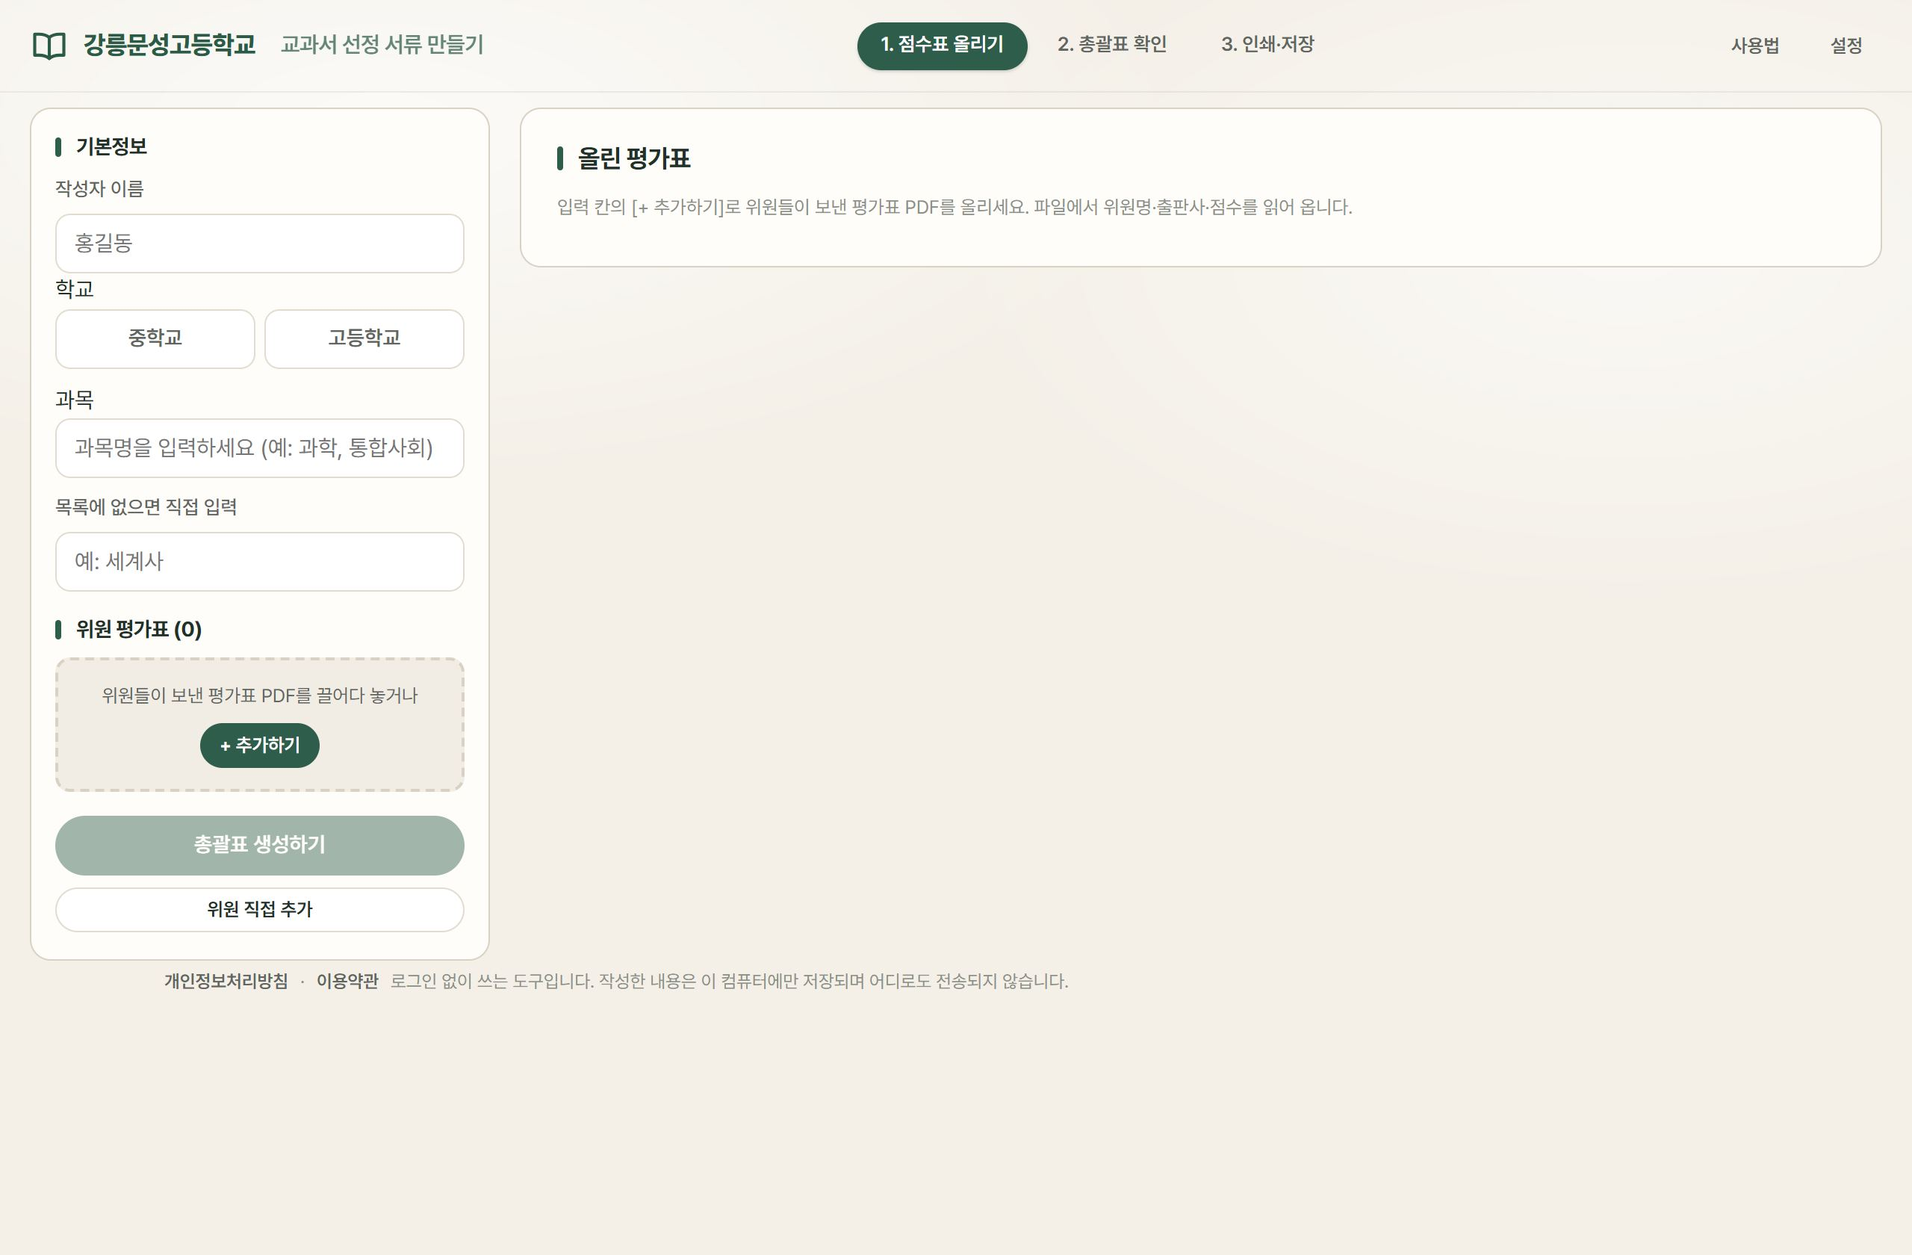
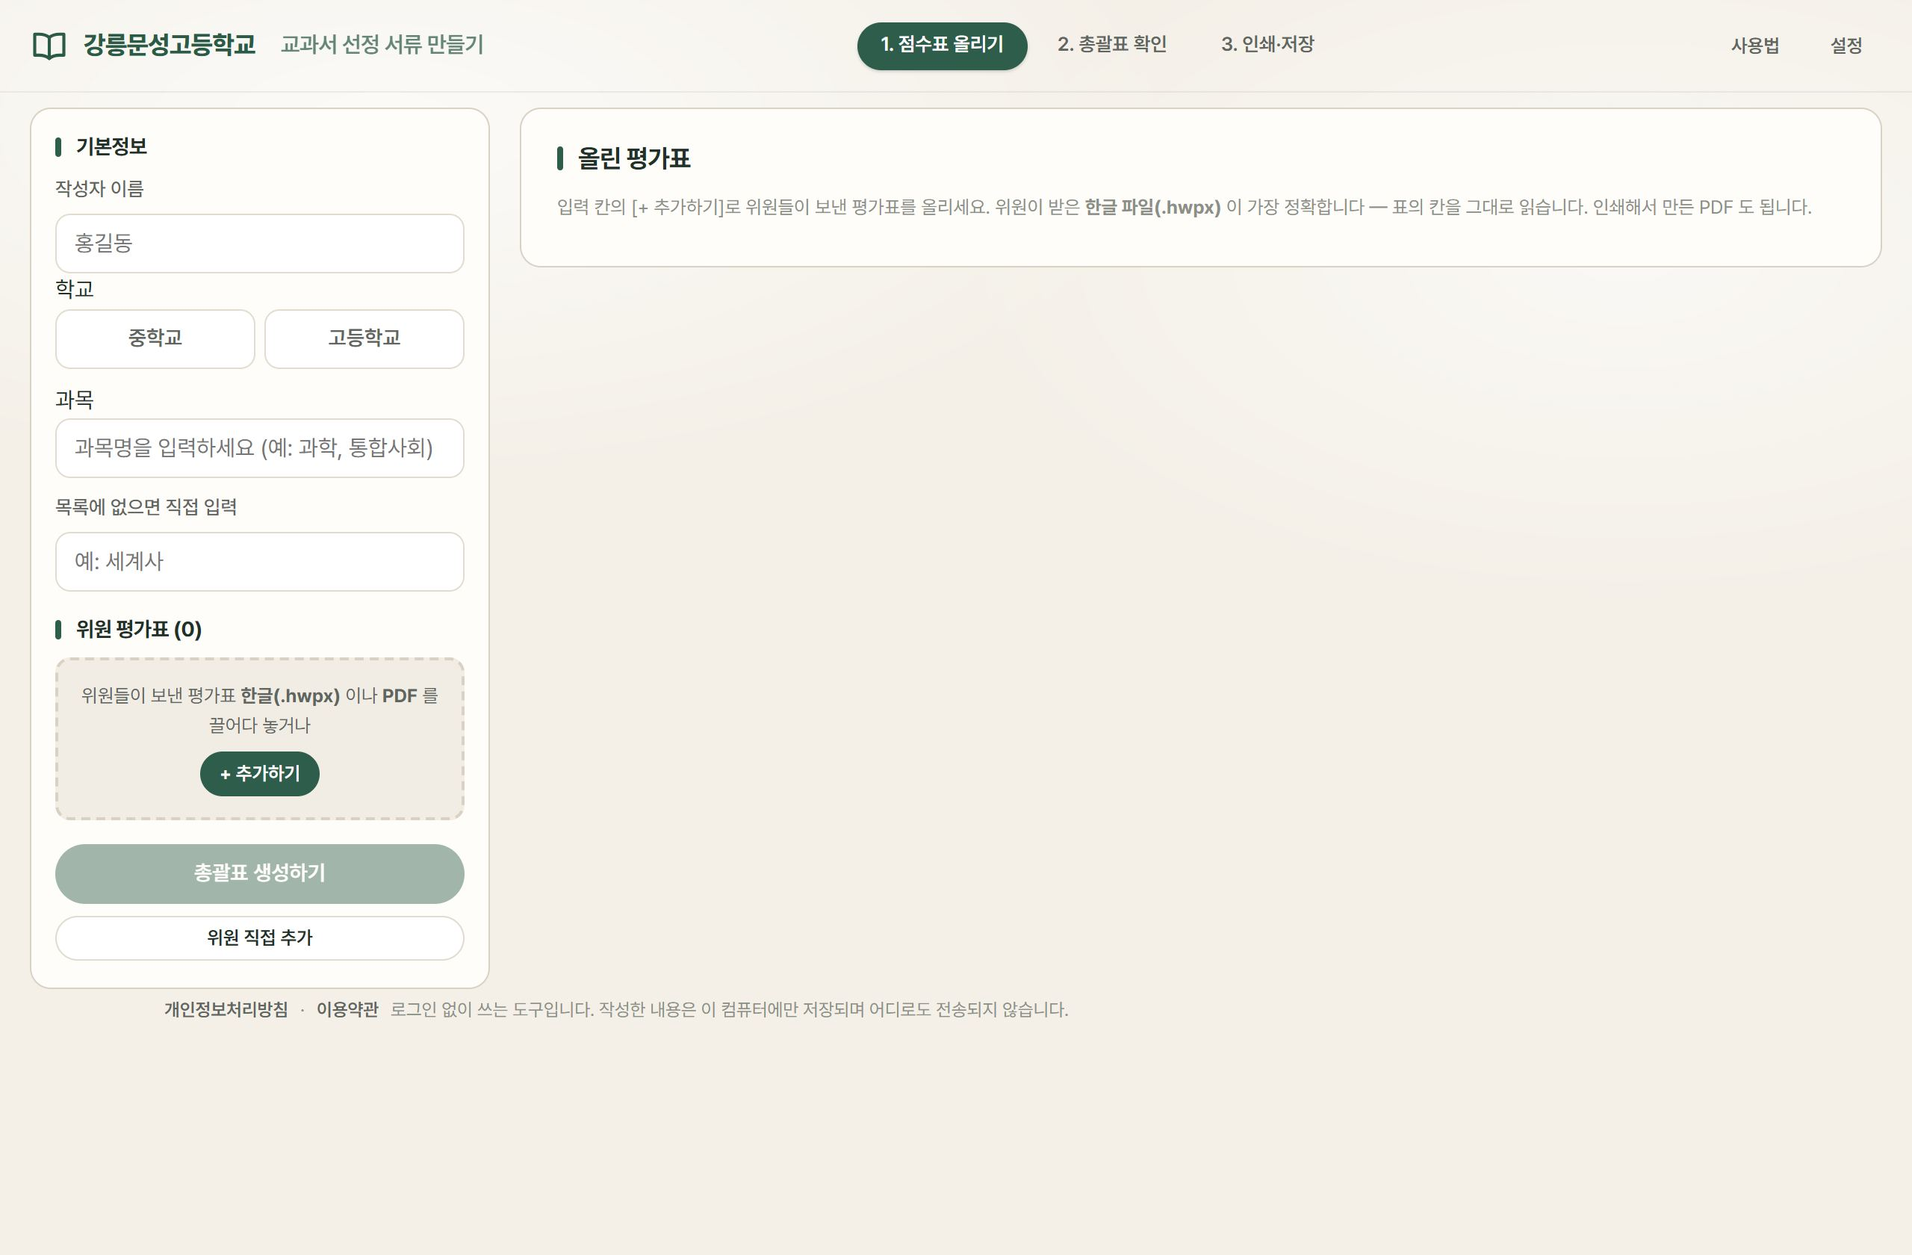
총괄표에 한글 파일(.hwpx)을 그대로 올릴 수 있게 하다
선생님이 올린 파일을 받아 보니 원인이 분명해졌다.
한글에서 [PDF로 저장] 한 파일이었고, 그 PDF 안에는 글자가 한 자도 없었다.

  만든 프로그램  Hancom PDF 1.3.0.550
  글꼴           0개
  뽑아낸 글자     0개
  그리기 연산     constructPath 572 · fill 351 · eoFill 217

한글이 내보내면서 글자를 모두 선(벡터 그림)으로 바꿔 버린다. 읽을 글자가 없으니
판독기가 손쓸 수 없고, 앱은 그림 판독(OCR)으로 넘어가 억지로 읽다 실패했다.

PDF 를 거치지 말고 .hwpx 를 그대로 읽게 했다 (src/lib/hwpxImport.ts).
zip 을 풀어(DecompressionStream) 표의 칸 주소로 값을 꺼내므로 판독 heuristic 이
아예 필요 없다 — 위원이 한글에서 점수를 고쳐 저장한 파일도 읽힌다.
서식1 이 아닌 한글 파일은 무엇인지 짚어 돌려보낸다
('이 한글 파일에는 선정 평가표(서식1)가 없습니다 — 평가 총괄표입니다').

위원 3명분 .hwpx 로 총괄표까지 만들어 총점·평균·순위가 맞는 것을 확인했다.

사용법과 총괄 화면 안내도 고쳤다 — 한글 파일이 가장 정확하고, 한글에서 PDF 로
저장한 것은 읽히지 않는다는 것을 일러 둔다.

Changed region(s): [[0.0312, 0.5262, 0.5625, 0.8048], [0.4688, 0.1548, 0.9375, 0.1857]]

diff --git a/src/lib/hwpxImport.ts b/src/lib/hwpxImport.ts
@@ -1,0 +1,172 @@
+/**
+ * 위원이 받은 한글 파일(.hwpx)에서 선정 평가표를 도로 읽는다.
+ *
+ * PDF 를 거치지 않는 길이다. 한글로 내보낸 PDF 는 글자를 모두 선(벡터 그림)으로 바꿔 버려
+ * 글자가 한 자도 들어 있지 않고, 그림 판독(OCR)으로는 숫자를 믿을 수 없다.
+ * 반면 .hwpx 는 우리가 만든 XML 그대로라, 표의 칸 주소로 값을 꺼내면 어긋날 일이 없다.
+ *
+ * 위원이 한글에서 점수를 고쳐 저장한 파일도 읽힌다 — 칸 주소로 찾기 때문이다.
+ */
+import type { ParsedForm1 } from './form1Parse'
+import { normalize } from './form1Parse'
+
+/** zip 한 개를 푼다 (압축된 것은 브라우저의 DecompressionStream 으로 푼다) */
+async function unzip(buf: ArrayBuffer): Promise<Record<string, string>> {
+  const view = new DataView(buf)
+  const bytes = new Uint8Array(buf)
+  // 끝에서 중앙 디렉터리 자리를 찾는다
+  let eocd = -1
+  for (let i = bytes.length - 22; i >= 0 && i > bytes.length - 66000; i--) {
+    if (view.getUint32(i, true) === 0x06054b50) {
+      eocd = i
+      break
+    }
+  }
+  if (eocd < 0) throw new Error('한글 파일(zip)이 아닙니다.')
+  const count = view.getUint16(eocd + 10, true)
+  let p = view.getUint32(eocd + 16, true)
+  const dec = new TextDecoder('utf-8')
+  const out: Record<string, string> = {}
+  for (let i = 0; i < count; i++) {
+    if (view.getUint32(p, true) !== 0x02014b50) break
+    const method = view.getUint16(p + 10, true)
+    const csize = view.getUint32(p + 20, true)
+    const nameLen = view.getUint16(p + 28, true)
+    const extraLen = view.getUint16(p + 30, true)
+    const commentLen = view.getUint16(p + 32, true)
+    const lho = view.getUint32(p + 42, true)
+    const name = dec.decode(bytes.subarray(p + 46, p + 46 + nameLen))
+    p += 46 + nameLen + extraLen + commentLen
+    if (!/^(Contents\/section\d+\.xml)$/.test(name)) continue
+    const start = lho + 30 + view.getUint16(lho + 26, true) + view.getUint16(lho + 28, true)
+    const raw = bytes.subarray(start, start + csize)
+    if (method === 0) out[name] = dec.decode(raw)
+    else if (method === 8) {
+      const stream = new Blob([raw as BlobPart]).stream().pipeThrough(new DecompressionStream('deflate-raw'))
+      out[name] = await new Response(stream).text()
+    }
+  }
+  return out
+}
+
+const unesc = (s: string) => s.replace(/&lt;/g, '<').replace(/&gt;/g, '>').replace(/&quot;/g, '"').replace(/&apos;/g, "'").replace(/&amp;/g, '&')
+
+interface Cell {
+  row: number
+  col: number
+  colSpan: number
+  text: string
+}
+
+/** 표 하나의 칸을 { 줄, 열, 글자 } 로 읽는다 */
+function tableCells(tbl: string): Cell[] {
+  return (tbl.match(/<hp:tc\b[\s\S]*?<\/hp:tc>/g) || []).map((tc) => {
+    const addr = /<hp:cellAddr colAddr="(\d+)" rowAddr="(\d+)"\/>/.exec(tc)
+    const span = /<hp:cellSpan colSpan="(\d+)" rowSpan="(\d+)"\/>/.exec(tc)
+    const lines = (tc.match(/<hp:p\b[\s\S]*?<\/hp:p>/g) || []).map((p) =>
+      (p.match(/<hp:t>[\s\S]*?<\/hp:t>/g) || []).map((t) => unesc(t.replace(/<\/?hp:t>/g, ''))).join(''),
+    )
+    return {
+      row: addr ? Number(addr[2]) : 0,
+      col: addr ? Number(addr[1]) : 0,
+      colSpan: span ? Number(span[1]) : 1,
+      text: lines.join('\n').replace(/\n+$/, ''),
+    }
+  })
+}
+
+/** 표 바깥 문단들의 글자 */
+function paragraphTexts(xml: string): string[] {
+  return (xml.match(/<hp:p\b[^>]*>(?:(?!<hp:tbl|<\/hp:p>)[\s\S])*?<\/hp:p>/g) || [])
+    .map((p) => (p.match(/<hp:t>[\s\S]*?<\/hp:t>/g) || []).map((t) => unesc(t.replace(/<\/?hp:t>/g, ''))).join(''))
+    .filter((t) => t.trim())
+}
+
+export interface HwpxReadResult {
+  parsed?: ParsedForm1
+  error?: string
+}
+
+/**
+ * .hwpx 에서 서식1 을 읽어 PDF 로 읽었을 때와 같은 꼴로 돌려준다.
+ * 서식1 이 없으면(총괄용 파일 등) 무엇이 들어 있었는지 알려 준다.
+ */
+export async function readForm1Hwpx(file: File): Promise<HwpxReadResult> {
+  if (typeof DecompressionStream === 'undefined') {
+    return { error: '이 브라우저는 한글 파일을 풀지 못합니다. 크롬·엣지 최신판에서 열어 주세요.' }
+  }
+  let parts: Record<string, string>
+  try {
+    parts = await unzip(await file.arrayBuffer())
+  } catch (e) {
+    return { error: (e as Error).message }
+  }
+
+  const sections = Object.keys(parts).sort()
+  const section = sections.find((n) => parts[n].includes('【서식1】') || parts[n].includes('선정 평가표'))
+  if (!section) {
+    const has = sections.some((n) => parts[n].includes('【서식2】')) ? '평가 총괄표' : sections.some((n) => parts[n].includes('【서식3】')) ? '추천 의견서' : ''
+    return { error: `이 한글 파일에는 선정 평가표(서식1)가 없습니다${has ? ` — ${has}입니다` : ''}.` }
+  }
+  const xml = parts[section]
+  const tbl = /<hp:tbl [\s\S]*?<\/hp:tbl>/.exec(xml)?.[0]
+  if (!tbl) return { error: '한글 파일에서 평가표를 찾지 못했습니다.' }
+
+  const cells = tableCells(tbl)
+  const at = (row: number, col: number) => cells.find((c) => c.row === row && c.col === col)?.text ?? ''
+  const rowCnt = Number(/<hp:tbl\b[^>]*rowCnt="(\d+)"/.exec(tbl)?.[1] || 0)
+  const colCnt = Number(/<hp:tbl\b[^>]*colCnt="(\d+)"/.exec(tbl)?.[1] || 0)
+  // 0·1·2열은 평가영역·평가기준·항목별 점수, 3열부터 출판사. 마지막 두 줄은 합계와 종합의견
+  const nPub = colCnt - 3
+  const sumRow = rowCnt - 2
+  if (nPub < 1 || sumRow < 2) return { error: `평가표의 칸 수가 맞지 않습니다 (${rowCnt}줄 × ${colCnt}열).` }
+  if (!at(sumRow, 0).replace(/\s/g, '').startsWith('합계')) {
+    return { error: '평가표의 합계 줄을 찾지 못했습니다. 한글에서 줄을 더하거나 지우셨다면 PDF 로 올려 주세요.' }
+  }
+
+  const num = (s: string) => {
+    const n = Number(s.replace(/[^\d.-]/g, ''))
+    return Number.isFinite(n) ? n : 0
+  }
+  const publisherNames: string[] = []
+  const publisherPrices: string[] = []
+  const totals: number[] = []
+  for (let i = 0; i < nPub; i++) {
+    publisherNames.push(normalize(at(0, 3 + i)))
+    publisherPrices.push(normalize(at(1, 3 + i)))
+    totals.push(num(at(sumRow, 3 + i)))
+  }
+
+  const criteria = []
+  const scores: number[][] = []
+  let area = ''
+  for (let r = 2; r < sumRow; r++) {
+    // 평가영역은 여러 줄에 걸친 칸이라 첫 줄에만 글자가 있다 — 비어 있으면 위 줄 것을 잇는다
+    const a = normalize(at(r, 0))
+    if (a) area = a
+    criteria.push({ area, text: normalize(at(r, 1)), points: num(at(r, 2)) })
+    scores.push(Array.from({ length: nPub }, (_, i) => num(at(r, 3 + i))))
+  }
+
+  const paras = paragraphTexts(xml)
+  const head = paras.find((t) => /과\s*목\s*[:：]/.test(t)) || ''
+  const subjectName = normalize((head.match(/과\s*목\s*[:：]\s*(.+?)\s+과\s+위\s*원/) || head.match(/과\s*목\s*[:：]\s*(.+?)\s+위\s*원/) || [])[1] || '')
+  const teacherName = normalize((head.match(/위\s*원\s*[:：]\s*(.+?)\s*\(\s*인\s*\)/) || [])[1] || '')
+
+  // 종합의견 칸은 '<종합의견 및 추천의견>' 머리글 다음 줄부터다
+  const opinionCell = at(rowCnt - 1, 0)
+  const summaryOpinion = normalize(opinionCell.replace(/^[\s\S]*?종합의견 및 추천의견>?\s*/, ''))
+
+  const warnings: string[] = []
+  publisherNames.forEach((v, i) => {
+    if (!v) {
+      publisherNames[i] = `출판사${i + 1}`
+      warnings.push(`${i + 1}번째 출판사 이름이 비어 있어 임시 이름을 넣었습니다.`)
+    }
+  })
+  if (!teacherName) warnings.push('위원 이름을 읽지 못했습니다.')
+
+  return {
+    parsed: { subjectName, teacherName, publisherNames, publisherPrices, totals, criteria, scores, summaryOpinion, warnings },
+  }
+}

diff --git a/src/pages/Compile.tsx b/src/pages/Compile.tsx
@@ -199,7 +199,7 @@ export function Compile({ go }: { go: (h: string) => void }) {
   const generate = async () => {
     const name = subject?.name || subjectName.trim()
     if (!name) return setMsg({ type: 'warn', text: '과목을 선택하거나 과목명을 입력하세요.' })
-    if (!members.length) return setMsg({ type: 'warn', text: '위원 평가표 PDF를 먼저 올리세요.' })
+    if (!members.length) return setMsg({ type: 'warn', text: '위원 평가표 파일(한글 또는 PDF)을 먼저 올리세요.' })
     if (!mergedPublishers.length) return setMsg({ type: 'warn', text: '출판사를 읽지 못했습니다. 위원이 [인쇄 / PDF 저장]으로 만든 파일인지 확인해 주세요.' })
     if (members.length < 3 && !confirm(`위원이 ${members.length}명입니다. 계획서는 3인 이상을 권장합니다(소규모 학교 2인 가능). 그대로 만들까요?`)) return
     if (existing && !confirm('이 과목의 총괄표가 이미 있습니다. 올린 점수표로 다시 만들까요? (취소하면 기존 총괄표를 엽니다)')) {
@@ -427,10 +427,10 @@ export function Compile({ go }: { go: (h: string) => void }) {
                 addFiles(e.dataTransfer.files)
               }}
             >
-              <p>위원들이 보낸 평가표 PDF를 끌어다 놓거나</p>
+              <p>위원들이 보낸 평가표 <b>한글(.hwpx)</b> 이나 <b>PDF</b> 를 끌어다 놓거나</p>
               <label className="btn primary sm">
                 + 추가하기
-                <input type="file" accept="application/pdf,.pdf" multiple style={{ display: 'none' }} onChange={(e) => addFiles(e.target.files)} />
+                <input type="file" accept=".hwpx,.hwp,application/pdf,.pdf" multiple style={{ display: 'none' }} onChange={(e) => addFiles(e.target.files)} />
               </label>
             </div>
 
@@ -495,7 +495,7 @@ export function Compile({ go }: { go: (h: string) => void }) {
             <div className="card">
               <h2>올린 평가표</h2>
               {members.length === 0 ? (
-                <p className="muted small">입력 칸의 [+ 추가하기]로 위원들이 보낸 평가표 PDF를 올리세요. 파일에서 위원명·출판사·점수를 읽어 옵니다.</p>
+                <p className="muted small">입력 칸의 [+ 추가하기]로 위원들이 보낸 평가표를 올리세요. 위원이 받은 <b>한글 파일(.hwpx)</b> 이 가장 정확합니다 — 표의 칸을 그대로 읽습니다. 인쇄해서 만든 PDF 도 됩니다.</p>
               ) : (
                 <div className="scroll-x">
                   <table className="data">

diff --git a/src/pages/Guide.tsx b/src/pages/Guide.tsx
@@ -190,7 +190,7 @@ const SLIDES: Slide[] = [
       "인쇄 창에서 프린터를 'PDF로 저장' 으로 고르면 총괄 선생님께 보낼 파일이 됩니다.",
       '이 화면에서도 점수·의견을 그대로 고칠 수 있습니다.',
     ],
-    tip: '총괄 선생님께는 평가표 PDF를 보내 주세요. 그 파일에서 점수와 가격을 읽어 총괄표를 만듭니다.',
+    tip: '총괄 선생님께는 [한글(hwpx) 저장] 으로 받은 파일을 그대로 보내 주세요. 표의 칸을 그대로 읽어 가장 정확합니다. 인쇄해 만든 PDF 도 됩니다.',
     img: '08-print.jpg',
     alt: '한글 저장과 인쇄 버튼이 있는 인쇄·저장 화면',
   },
@@ -213,16 +213,16 @@ const SLIDES: Slide[] = [
     id: 'compile-upload',
     section: LEADER,
     step: '1단계',
-    title: '위원들이 보낸 평가표 PDF를 올립니다',
+    title: '위원들이 보낸 평가표 파일을 올립니다',
     lead: '시작 화면에서 [평가총괄표 작성] 으로 들어와, 끌어다 놓거나 [+ 추가하기] 로 파일을 고릅니다.',
     points: [
-      '여러 위원의 평가표를 한 파일로 합쳐 올려도 됩니다.',
-      '위원별로 따로 올려도 되고, 섞어서 올려도 괜찮습니다.',
-      '중간에 빈 페이지나 스캔이 흐린 장이 있어도 그 장만 건너뜁니다.',
+      '위원이 받은 한글 파일(.hwpx) 이 가장 정확합니다 — 표의 칸을 그대로 읽습니다.',
+      '인쇄해서 만든 PDF 도 됩니다. 여러 위원 것을 한 파일로 합쳐 올려도, 따로 올려도 됩니다.',
+      '한글에서 [PDF로 저장] 한 파일은 글자가 그림으로 바뀌어 읽히지 않습니다 — 그럴 때는 .hwpx 를 올려 주세요.',
     ],
-    tip: 'PDF를 못 받은 위원은 [위원 직접 추가] 로 점수를 손으로 넣을 수 있습니다.',
+    tip: '파일을 못 받은 위원은 [위원 직접 추가] 로 점수를 손으로 넣을 수 있습니다.',
     img: '10-compile-upload.jpg',
-    alt: '평가표 PDF를 올리는 총괄표 첫 화면',
+    alt: '위원 평가표 파일을 올리는 총괄표 첫 화면',
   },
   {
     id: 'compile-members',

diff --git a/src/lib/pdfImport.ts b/src/lib/pdfImport.ts
@@ -1,6 +1,7 @@
 import type { Criterion, DocPublisher, Evaluation, RecommendItem, SummaryMember } from '../types'
 import { uid } from '../seed'
 import { buildRows, flatten, looksLikeForm1, looksLikeForm3, parseForm1, parseForm3, parseForm3Writer, type ParsedForm1, type TextItem, type TextRow } from './form1Parse'
+import { readForm1Hwpx } from './hwpxImport'
 
 export interface ImportProgress {
   file: string
@@ -267,8 +268,20 @@ export async function importMemberFiles(files: File[], onProgress: (p: ImportPro
   for (const file of files) {
     try {
       onProgress({ file: file.name, note: '읽는 중…' })
+      // 한글 파일은 표의 칸을 그대로 읽는다 — PDF 판독보다 정확하다
+      if (/\.hwpx?$/i.test(file.name)) {
+        const got = await readForm1Hwpx(file)
+        if (got.error || !got.parsed) {
+          errors.push({ file: file.name, reason: got.error || '한글 파일을 읽지 못했습니다.' })
+          continue
+        }
+        const evaluation = toEvaluation(got.parsed, [])
+        if (!evaluation.teacherName) evaluation.teacherName = file.name.replace(/\.hwpx?$/i, '')
+        members.push({ id: uid(), teacherName: evaluation.teacherName, source: 'hwpx', evaluation, warnings: got.parsed.warnings })
+        continue
+      }
       if (!/\.pdf$/i.test(file.name) && file.type !== 'application/pdf') {
-        errors.push({ file: file.name, reason: '평가표 PDF 파일만 올릴 수 있습니다.' })
+        errors.push({ file: file.name, reason: '평가표 PDF 나 한글(.hwpx) 파일만 올릴 수 있습니다.' })
         continue
       }
       const res = await readPdf(file, onProgress)

diff --git a/src/types.ts b/src/types.ts
@@ -117,7 +117,7 @@ export interface SummaryRecommend {
   text: string
 }
 
-export type MemberSource = 'pdf' | 'pdf-ocr' | 'json' | 'manual'
+export type MemberSource = 'pdf' | 'pdf-ocr' | 'hwpx' | 'json' | 'manual'
 
 /** 총괄표의 위원 열 하나. PDF/JSON에서 읽은 원본 문서를 함께 보관한다 */
 export interface SummaryMember {

diff --git a/README.md b/README.md
@@ -40,7 +40,7 @@
 1. **위원** — `서류 초안 작성하기` → 이름·과목·출판사(이름과 가격)를 넣고 1순위를 고르면 평가표 초안이 만들어집니다. 점수와 종합의견을 고친 뒤
    - `[한글(hwpx) 저장]` → **서식1** 한글 파일
    - `[인쇄 · PDF 저장]` → 총괄 선생님께 보낼 PDF
-2. **교과협의회 대표교사** — `평가총괄표 작성` → 위원들이 보낸 PDF(또는 JSON)를 올리면 점수를 읽어 총괄표를 만듭니다. 출판사 가격을 확인하고, 순위별 추천 의견을 쓴 뒤
+2. **교과협의회 대표교사** — `평가총괄표 작성` → 위원들이 보낸 **한글 파일(.hwpx)** 이나 PDF 를 올리면 점수를 읽어 총괄표를 만듭니다. .hwpx 는 표의 칸을 그대로 읽어 가장 정확합니다. 출판사 가격을 확인하고, 순위별 추천 의견을 쓴 뒤
    - `[한글(hwpx) 저장]` → **서식2 + 서식3** 한글 파일 하나
 
 평가기준·배점·의견 선택지는 `[설정]` → `설정 JSON 저장`으로 파일에 담아 같은 교과 선생님들과 나눠 쓸 수 있습니다.
@@ -63,6 +63,8 @@ npm run build
 | `npm run shot:hwpx` | 만든 .hwpx 를 한글로 열어 화면을 그림으로 남깁니다 — 정렬·대각선처럼 눈으로 봐야 아는 것을 확인할 때 |
 | `npm run check:print` | `[인쇄 · PDF 저장]` 을 실제로 눌러 서식1·2·3 PDF 를 뽑아, 한 쪽에 드는지와 머리말·꼬리말이 없는지 봅니다 |
 | `npm run shots` | `npm run dev` 를 띄워 둔 채로 돌리면, 앱을 처음부터 끝까지 움직여 `사용법` 안내 그림 15장을 다시 찍습니다 |
+
+> **한글에서 [PDF로 저장] 한 파일은 읽히지 않습니다.** 한글이 글자를 모두 선(벡터 그림)으로 바꿔 내보내기 때문에 PDF 안에 글자가 한 자도 없습니다(`/Font` 0개). 그래서 총괄 화면은 **.hwpx 를 그대로 읽는 길**(`src/lib/hwpxImport.ts`)을 둡니다 — 표의 칸 주소로 값을 꺼내므로 판독 heuristic 이 필요 없습니다.
 
 `npm run shots` 는 위원 평가표를 PDF 로 뽑아 그 파일을 총괄 화면에 도로 올리는 식으로 돌기 때문에, '위원 → PDF → 총괄표' 한 바퀴가 실제로 도는지도 함께 확인해 줍니다. 화면이나 서식을 고쳤으면 `npm run shots` 로 안내 그림을 다시 찍어 주세요. 브라우저는 이 컴퓨터에 깔린 크롬/엣지를 그대로 씁니다.
 
